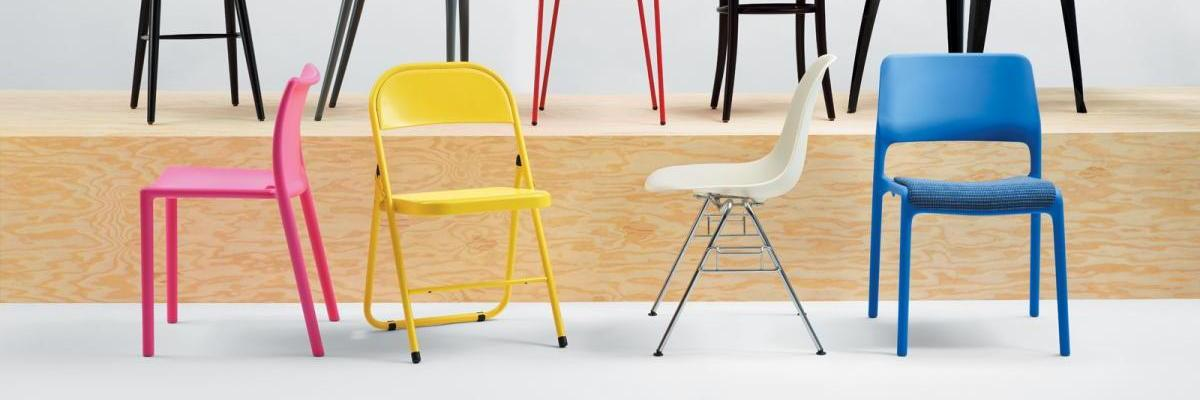
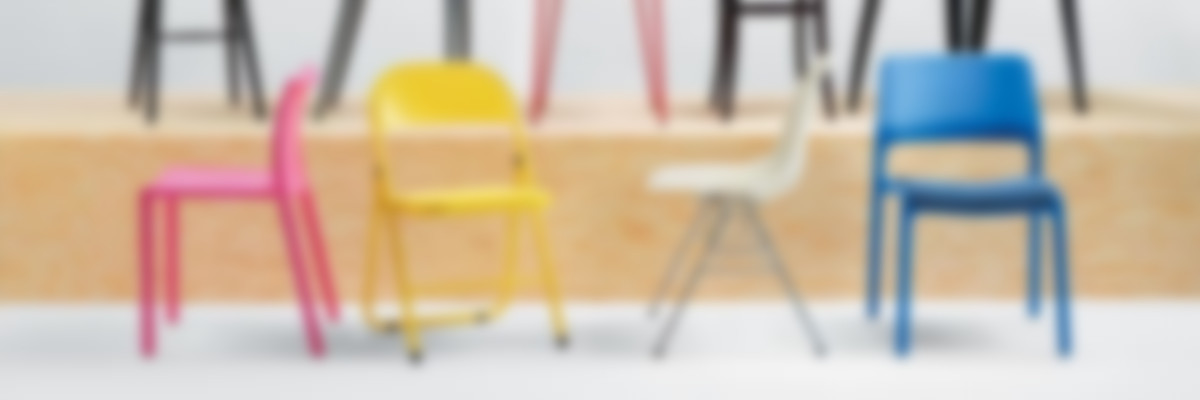
Add gaussian blur to background image.

diff --git a/public/img/background/README.md b/public/img/background/README.md
@@ -1,0 +1,6 @@
+# Kanibar Background Image Guidelines
+
+Name: from `1.jpg` to `N.jpg`
+Size: 1200x400px
+Format: JPG, quality 90%
+Filter: Gaussian blur, blur radius=10px
